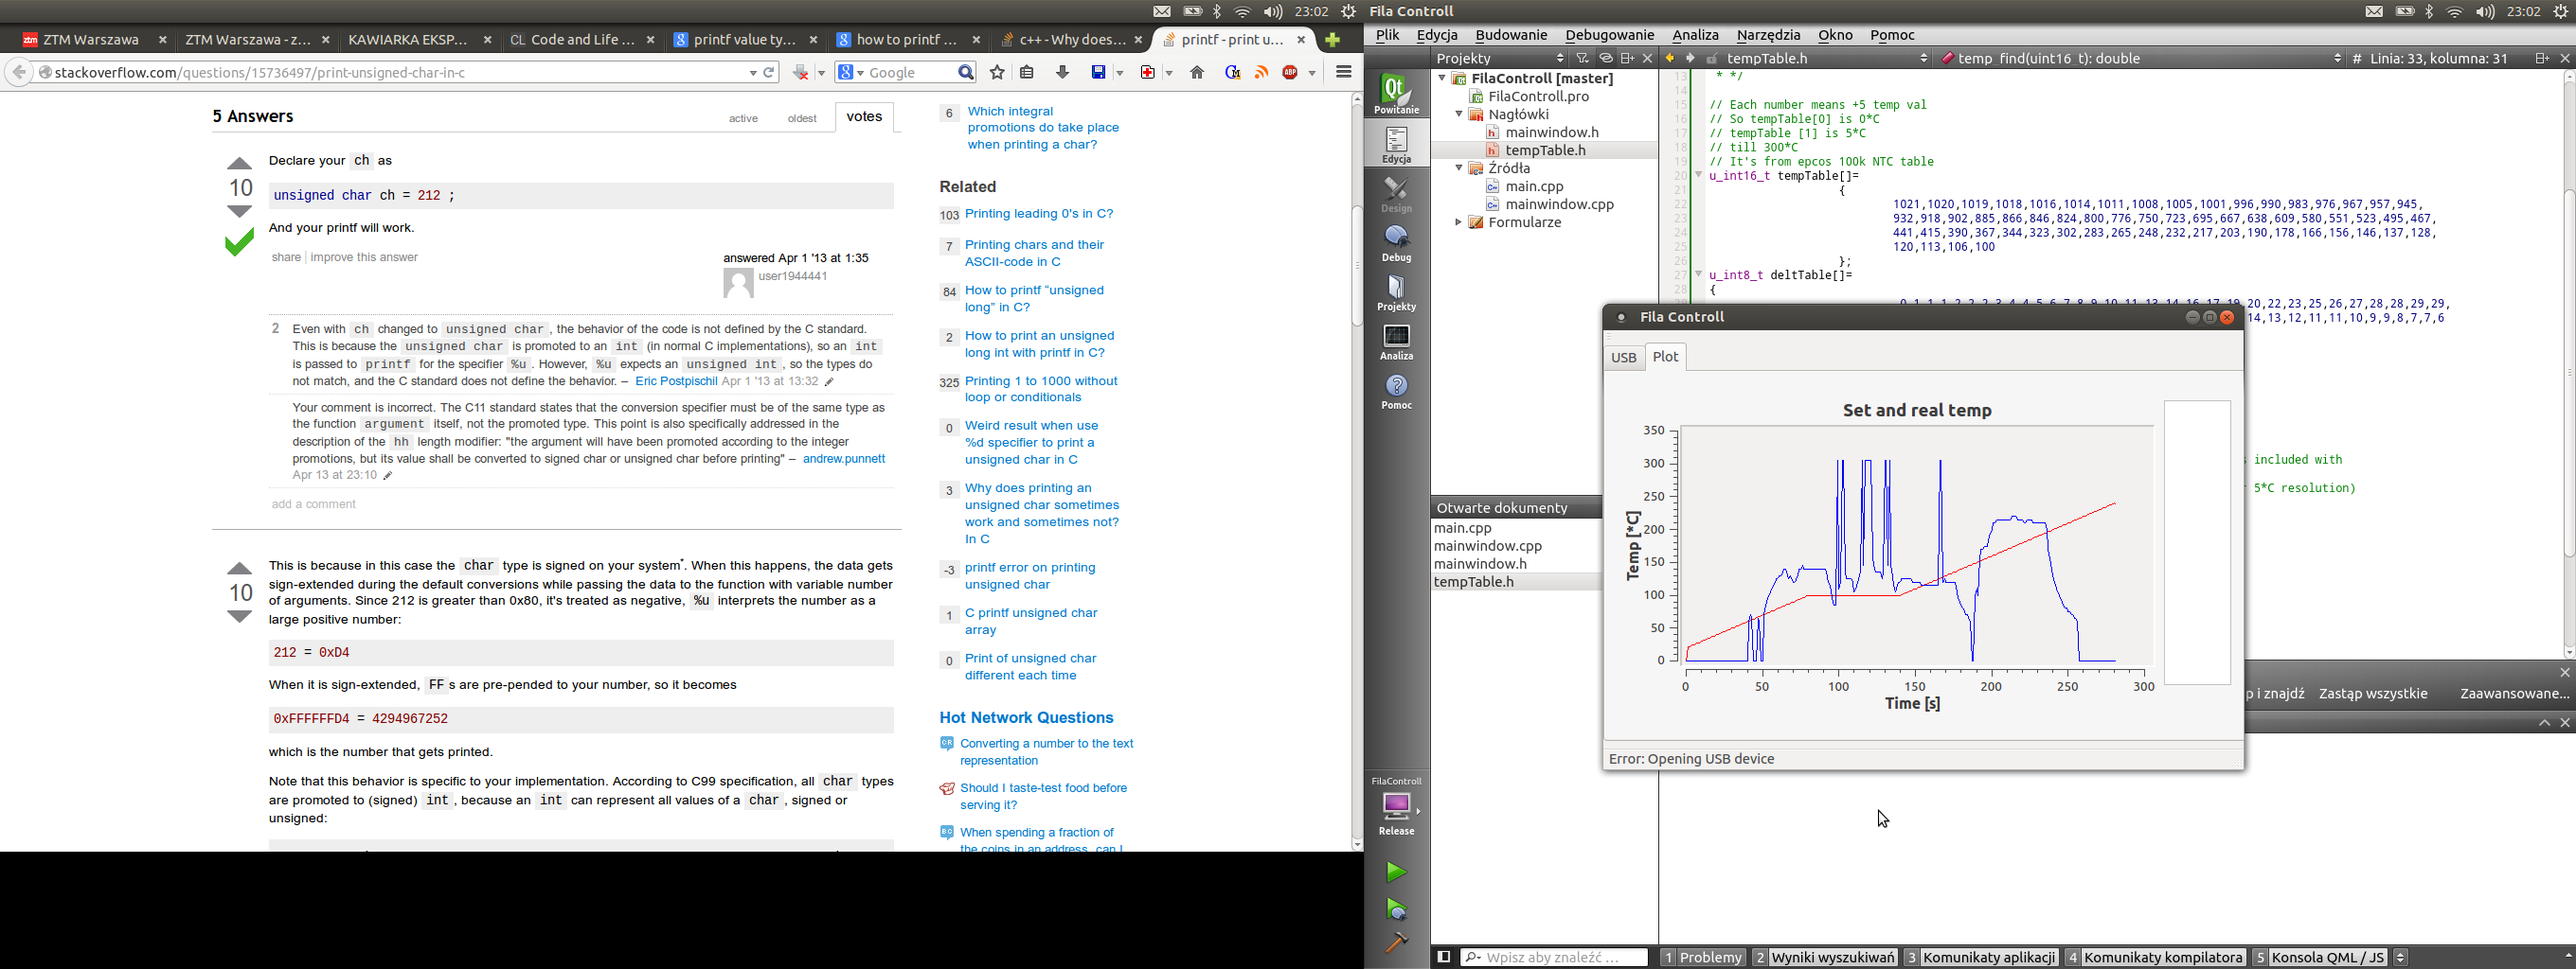
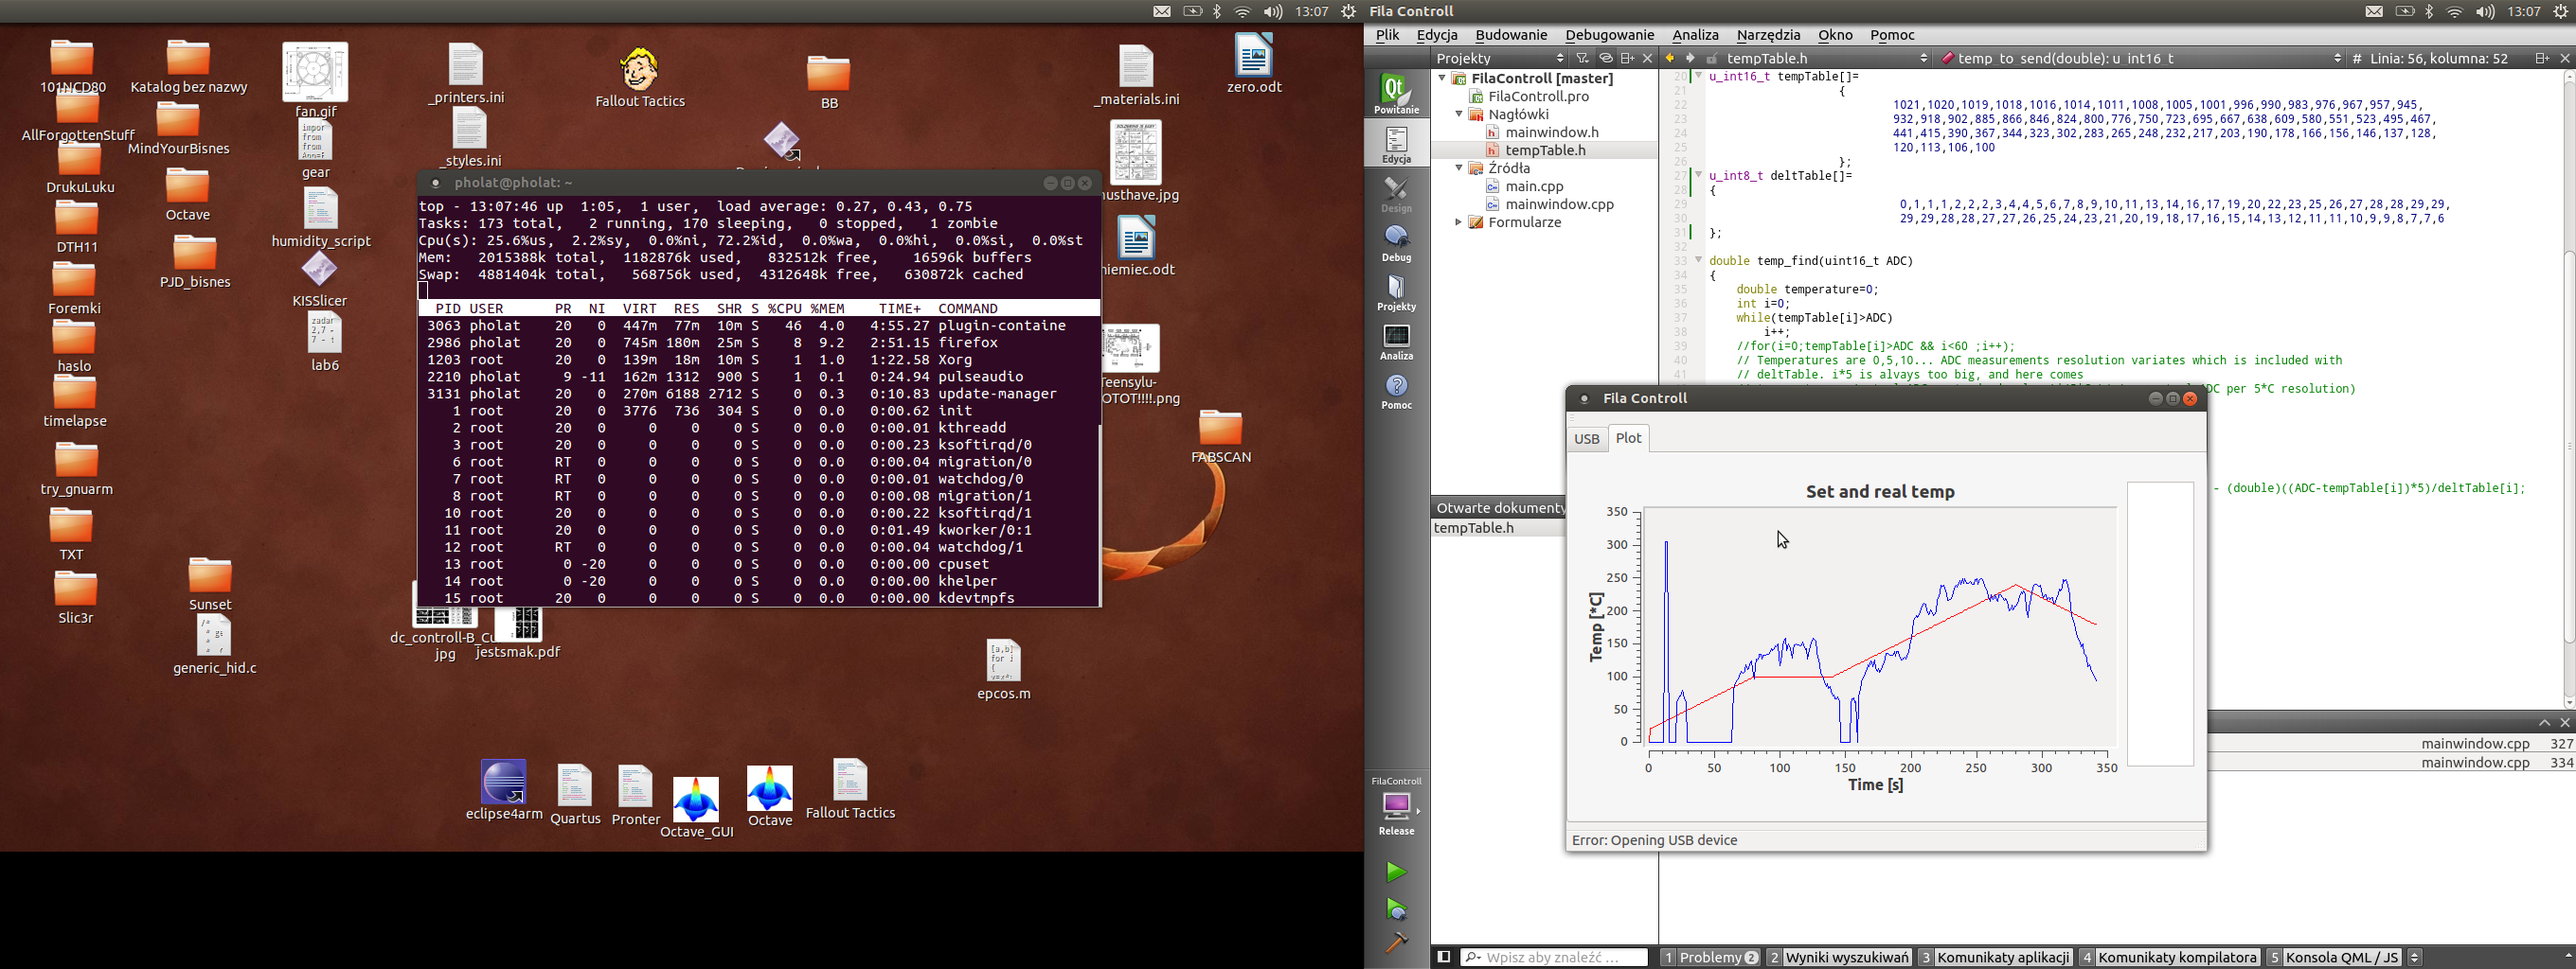
Usable temp measurements

diff --git a/tempTable.h b/tempTable.h
@@ -40,7 +40,13 @@ double temp_find(uint16_t ADC)
     // Temperatures are 0,5,10... ADC measurements resolution variates which is included with
     // deltTable. i*5 is alvays too big, and here comes
     // temperature = (actual ADC - standard values)*(5*C )/ (per actual ADC per 5*C resolution)
-    temperature= i*5;// - (double)((ADC-tempTable[i])*5)/deltTable[i];
+    // If else is to remember not to divide by 0...
+    double multiply;
+    if(deltTable[i])
+    {
+            multiply = 5/(double)(deltTable[i]);
+    } else { multiply = 0; };
+    temperature= i*5 + (ADC - tempTable[i])*multiply;//*5/deltTable[i];// - (double)((ADC-tempTable[i])*5)/deltTable[i];
     return temperature;
 }
 
